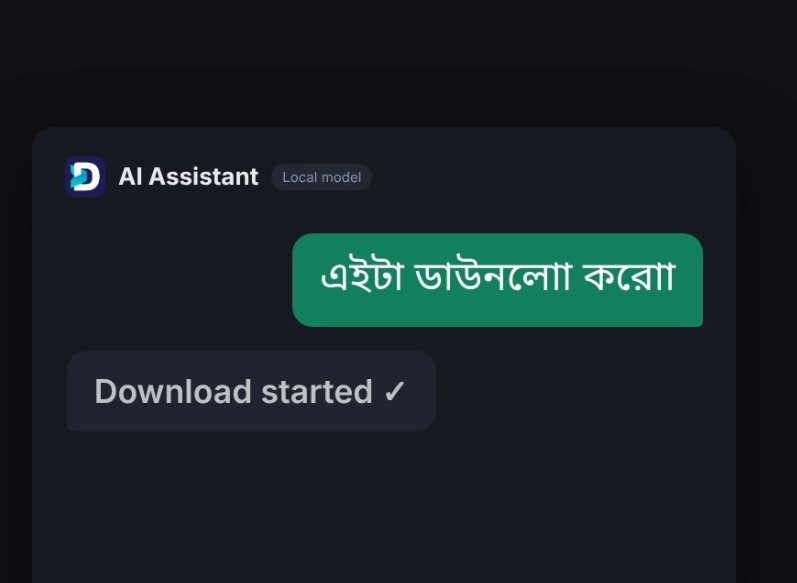
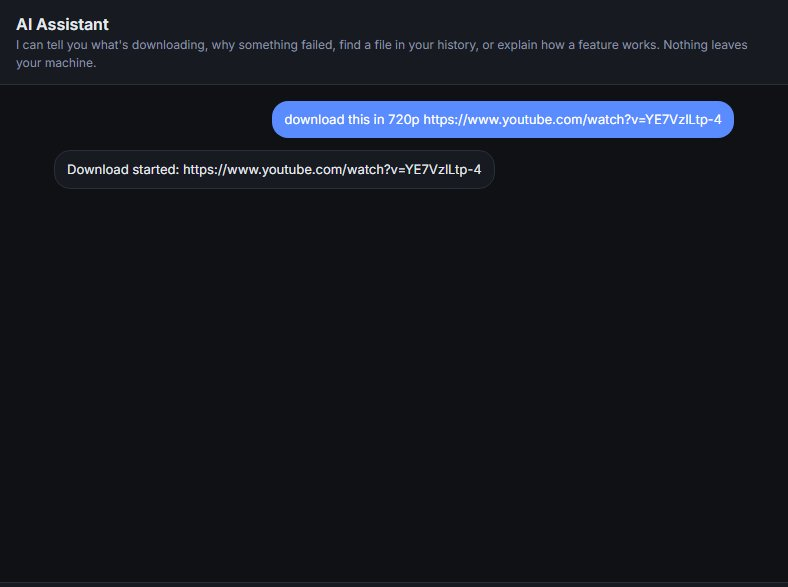
Docs: retake AI Assistant screenshot in English

diff --git a/README.md b/README.md
@@ -49,7 +49,7 @@ DOVIRA is a free, open-source AI download manager for Windows, macOS and Linux. 
 | --- | --- | --- | --- |
 | ![Add Download dialog with a real format list](docs/screenshots/add-dialog-formats-light.png) | ![Home with a download in progress](docs/screenshots/home-downloading-light.png) | ![Home with a completed download](docs/screenshots/home-completed-light.png) | ![History with a completed download](docs/screenshots/history-light.png) |
 
-![AI Assistant — Bangla command, dark theme](docs/screenshots/ai-assistant-dark.jpg)
+![AI Assistant — English command, dark theme](docs/screenshots/ai-assistant-dark.jpg)
 
 All screenshots are real captures of the app (v1.3.1, Mint light theme unless noted). The four new light-theme shots were captured by driving the real app with Playwright — a real YouTube download of the CC-licensed "Tears of Steel" open movie (Blender Foundation). The AI Assistant shot is a real user-captured screenshot (dark theme).
 
